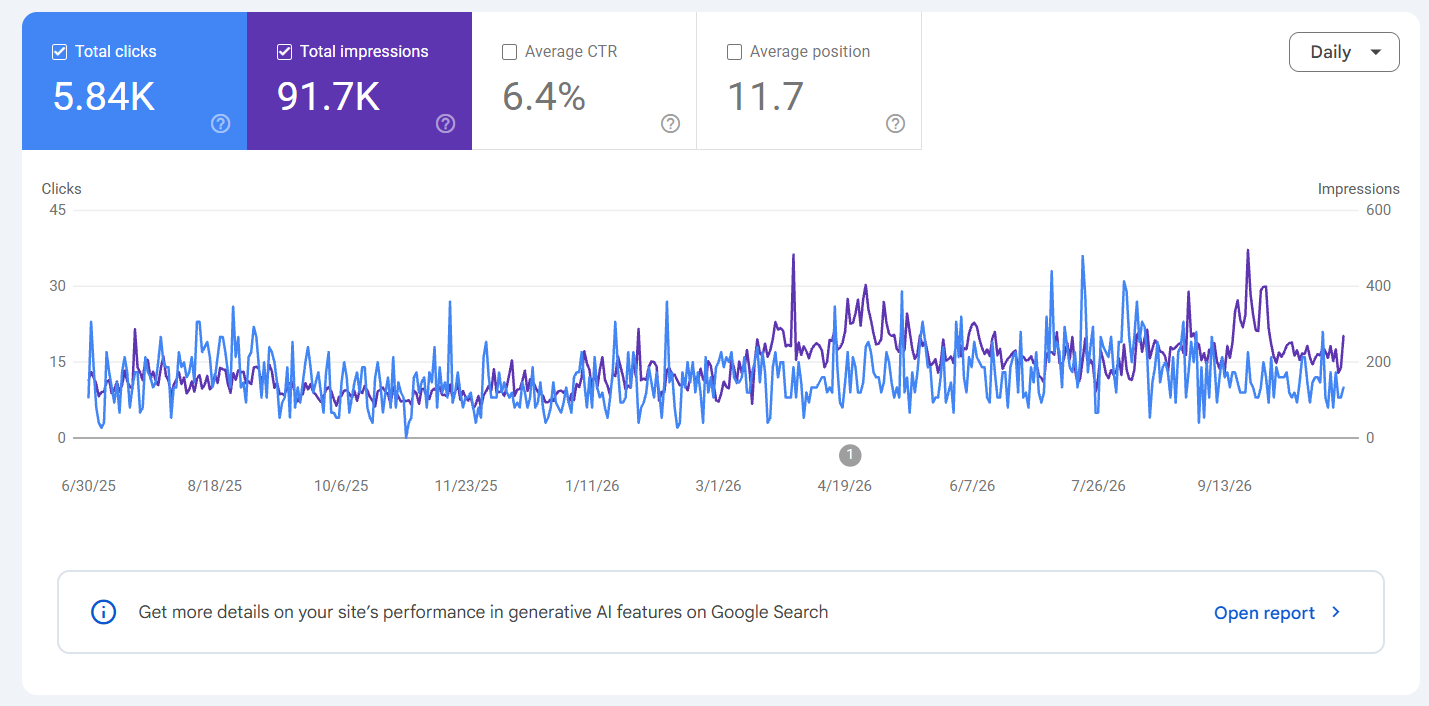
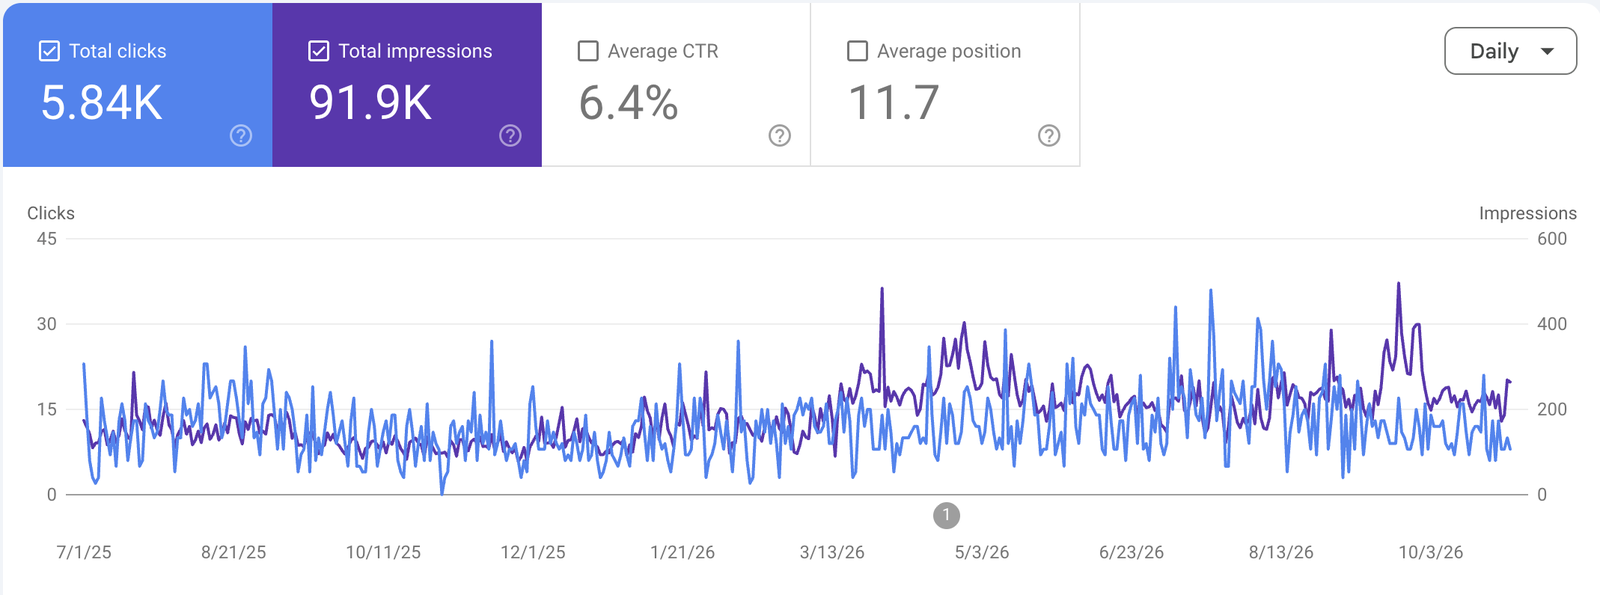
N10: one real browser with accurate hotspots, wireframe demo removed, single Outcome tile with larger chart, phone-safe hotspot notes; stats and resume use 90K+ impressions
Claude-Session: https://claude.ai/code/session_01KhoCi666VEHQJwbSqKPRhi

diff --git a/src/components/blocks/FeatureBlock.tsx b/src/components/blocks/FeatureBlock.tsx
@@ -51,7 +51,10 @@ function usePinned() {
 export default function FeatureBlock({ project, index }: FeatureBlockProps) {
   const proof = PROOFS[project.id] ?? PROOFS["ds3-park-smart"];
   const { Main, Side } = proof;
-  const pinned = usePinned();
+  // A project with a real screenshot is shown by its hotspot browser instead of a wireframe demo.
+  const hasDemo = !project.screenshot;
+  const roomy = usePinned();
+  const pinned = hasDemo && roomy;
   const wrapRef = useRef<HTMLDivElement>(null);
   const { scrollYProgress: pinP } = useScroll({ target: wrapRef, offset: ["start start", "end end"] });
 
@@ -111,7 +114,7 @@ export default function FeatureBlock({ project, index }: FeatureBlockProps) {
             )}
           </motion.div>
 
-          {pinned ? (
+          {!hasDemo ? null : pinned ? (
             <ProofStage
               Main={Main}
               Side={Side}
@@ -124,7 +127,7 @@ export default function FeatureBlock({ project, index }: FeatureBlockProps) {
             <ProofStage Main={Main} Side={Side} cards={project.tools} />
           )}
 
-          {!pinned && (
+          {hasDemo && !pinned && (
             <p className="mt-6 text-[11px] uppercase tracking-[0.2em] text-[var(--taupe-subtle)]">
               Placeholder preview · {project.imagePlaceholder.label}
             </p>
@@ -132,7 +135,7 @@ export default function FeatureBlock({ project, index }: FeatureBlockProps) {
         </div>
       </div>
 
-      {pinned && (
+      {hasDemo && pinned && (
         <p className="text-[11px] uppercase tracking-[0.2em] text-[var(--taupe-subtle)]">
           Placeholder preview · {project.imagePlaceholder.label}
         </p>
@@ -166,14 +169,14 @@ export default function FeatureBlock({ project, index }: FeatureBlockProps) {
 
       {/* DETAIL CARDS: art tile + title + text (Shopify card-grid pattern; tiles hold real images later) */}
       {project.slots && project.slots.length > 0 && (
-        <div className="mt-10 pb-[clamp(3.5rem,7vw,6rem)] grid grid-cols-1 md:grid-cols-3 gap-6 md:gap-8">
+        <div className={`mt-10 pb-[clamp(3.5rem,7vw,6rem)] grid grid-cols-1 gap-6 md:gap-8 ${project.slots.length === 1 ? "md:max-w-[860px]" : project.slots.length === 2 ? "md:grid-cols-2" : "md:grid-cols-3"}`}>
           {project.slots.map((slot, i) => (
             <motion.div
               key={slot.label}
               {...fadeUp({ amount: 0.3, duration: 0.8, delay: i * 0.1 })}
               className="group"
             >
-              <AnimatedTile index={i} aspect="4/3" image={slot.image} alt={slot.label} />
+              <AnimatedTile index={i} aspect={project.slots!.length === 1 ? "2/1" : "4/3"} image={slot.image} alt={slot.label} />
               <span className="block mt-4 text-[15px] font-semibold text-[var(--text-ink)]">
                 {slot.label}
               </span>

diff --git a/src/data/portfolio.ts b/src/data/portfolio.ts
@@ -318,28 +318,20 @@ export const WORK_PROJECTS: ProjectData[] = [
     meta: "N10 Dance Studios · Web Developer · Jun 2024 to Jul 2025",
     stats: [
       { value: "5.8K+", label: "organic Google clicks" },
-      { value: "91.7K", label: "search impressions" },
+      { value: "90K+", label: "search impressions" },
       { value: "6.4%", label: "click-through rate" },
     ],
     tools: ["WordPress", "HTML", "CSS"],
     screenshot: "/n10-homepage.jpg",
     hotspots: [
-      { x: 47, y: 8, label: "Site structure", detail: "Site structure improvements, part of the ongoing SEO work." },
-      { x: 50, y: 45, label: "Keyword targeting", detail: "Keyword targeting and content updates across the site." },
-      { x: 57, y: 74, label: "Content updates", detail: "Ongoing content and call-to-action updates, kept mobile friendly." },
+      { x: 37, y: 8, label: "Navigation", detail: "Dropdowns for Classes, Competitive Programs and Resources group the site into clear sections." },
+      { x: 50, y: 63, label: "Hero message", detail: "One line on what the studio offers, placed right above the call-to-action buttons." },
+      { x: 50, y: 74, label: "Paths to enroll", detail: "Register Now, Parent Portal and Download App take families to enrollment, their account and the studio app." },
     ],
     slots: [
       {
-        label: "Client Objective",
-        prompt: "Grow the studio's organic visibility on Google.",
-      },
-      {
-        label: "What I Did",
-        prompt: "On-page SEO, site structure, content updates, and ongoing site management.",
-      },
-      {
         label: "Outcome",
-        prompt: "5.8K+ organic clicks and 91.7K impressions at a 6.4% CTR (Google Search Console, Jun 2025 to Oct 2026).",
+        prompt: "5.8K+ organic clicks and 90K+ impressions at a 6.4% CTR (Google Search Console, Jul 2025 to Oct 2026).",
         image: "/n10-search-console.png",
       },
     ],

diff --git a/src/components/blocks/HotspotBrowser.tsx b/src/components/blocks/HotspotBrowser.tsx
@@ -69,7 +69,7 @@ function Spot({ spot, index, open, onToggle }: { spot: Hotspot; index: number; o
           initial={{ opacity: 0, y: below ? -6 : 6 }}
           animate={{ opacity: 1, y: 0 }}
           transition={{ duration: 0.3, ease: EASE }}
-          className={`absolute w-[min(240px,60vw)] rounded-lg p-3.5 text-left ${right ? "right-5" : "left-5"} ${below ? "top-4" : "bottom-4"}`}
+          className={`absolute hidden sm:block w-[240px] rounded-lg p-3.5 text-left ${right ? "right-5" : "left-5"} ${below ? "top-4" : "bottom-4"}`}
           style={{ background: "#FBF8F2", boxShadow: "0 14px 40px rgba(0,0,0,0.4)" }}
         >
           <span className="block text-[13px] font-semibold text-[var(--text-ink)]">{spot.label}</span>
@@ -112,6 +112,13 @@ export default function HotspotBrowser({ title, hotspots, image }: { title: stri
           ))}
         </div>
       </div>
+      {/* phones: the open note sits under the browser, where it can never be clipped */}
+      {open !== null && hotspots[open] && (
+        <div key={open} className="sm:hidden relative mx-auto mt-4 max-w-[980px] rounded-lg p-3.5" style={{ background: "#FBF8F2" }}>
+          <span className="block text-[13px] font-semibold text-[var(--text-ink)]">{hotspots[open].label}</span>
+          <span className="block mt-1 font-mono text-[12px] leading-snug italic text-[var(--accent-oxblood)]">{hotspots[open].detail}</span>
+        </div>
+      )}
     </motion.div>
   );
 }

diff --git a/src/components/blocks/MediaSlots.tsx b/src/components/blocks/MediaSlots.tsx
@@ -130,7 +130,7 @@ export function AnimatedTile({ index = 0, aspect = "4/3", image, alt = "" }: { i
   return (
     <div
       ref={ref}
-      className="relative overflow-hidden rounded-lg aspect-[4/3] md:[aspect-ratio:var(--ar)]"
+      className={`relative overflow-hidden rounded-lg md:[aspect-ratio:var(--ar)] ${image ? "aspect-[16/10]" : "aspect-[4/3]"}`}
       style={{ ["--ar" as string]: aspect.replace("/", " / "), background: TONES[index % TONES.length] }}
     >
       <motion.div className="absolute -inset-[8%]" style={{ y: bgY }}>
